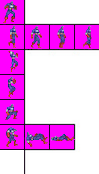
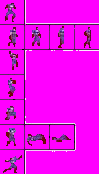
shooting animations

diff --git a/src/Level/Player.java b/src/Level/Player.java
@@ -48,6 +48,7 @@ public abstract class Player extends GameObject {
     protected Key MOVE_LEFT_KEY = Key.LEFT;
     protected Key MOVE_RIGHT_KEY = Key.RIGHT;
     protected Key CROUCH_KEY = Key.DOWN;
+    protected Key SHOOT_KEY = Key.SHIFT;
 
     // flags
     protected boolean isInvincible = false; // if true, player cannot be hurt by enemies (good for testing)
@@ -263,14 +264,26 @@ public abstract class Player extends GameObject {
             if (currentMapTile != null && currentMapTile.getTileType() == TileType.WATER) {
                 this.currentAnimationName = facingDirection == Direction.RIGHT ? "SWIM_STAND_RIGHT" : "SWIM_STAND_LEFT";
             }
+            //switches to shooting animation. 
+            if(Keyboard.isKeyDown(SHOOT_KEY)){
+                this.currentAnimationName = facingDirection == Direction.RIGHT ? "SHOOT_RIGHT" : "SHOOT_LEFT";
+            }
         }
         else if (playerState == PlayerState.WALKING) {
             // sets animation to a WALK animation based on which way player is facing
             this.currentAnimationName = facingDirection == Direction.RIGHT ? "WALK_RIGHT" : "WALK_LEFT";
+            //switches to shooting animation. 
+            if(Keyboard.isKeyDown(SHOOT_KEY)){
+                this.currentAnimationName = facingDirection == Direction.RIGHT ? "SHOOT_RIGHT" : "SHOOT_LEFT";
+            }
         }
         else if (playerState == PlayerState.CROUCHING) {
             // sets animation to a CROUCH animation based on which way player is facing
             this.currentAnimationName = facingDirection == Direction.RIGHT ? "CROUCH_RIGHT" : "CROUCH_LEFT";
+            //switches to shooting animation. 
+            if(Keyboard.isKeyDown(SHOOT_KEY)){
+                this.currentAnimationName = facingDirection == Direction.RIGHT ? "SHOOT_RIGHT" : "SHOOT_LEFT";
+            }
         }
         else if (playerState == PlayerState.JUMPING) {
             // if player is moving upwards, set player's animation to jump. if player moving downwards, set player's animation to fall
@@ -278,6 +291,10 @@ public abstract class Player extends GameObject {
                 this.currentAnimationName = facingDirection == Direction.RIGHT ? "JUMP_RIGHT" : "JUMP_LEFT";
             } else {
                 this.currentAnimationName = facingDirection == Direction.RIGHT ? "FALL_RIGHT" : "FALL_LEFT";
+            }
+            //switches to shooting animation. 
+            if(Keyboard.isKeyDown(SHOOT_KEY)){
+                this.currentAnimationName = facingDirection == Direction.RIGHT ? "SHOOT_RIGHT" : "SHOOT_LEFT";
             }
         }
     }

diff --git a/src/Enemies/Cat.java b/src/Enemies/Cat.java
@@ -52,6 +52,7 @@ public class Cat extends Player {
             MOVE_LEFT_KEY = Key.A;
             MOVE_RIGHT_KEY = Key.D;
             CROUCH_KEY = Key.S;
+            SHOOT_KEY = Key.Q;
         }
         playerNumberOut = playerNumber;
         this.character = character;
@@ -304,14 +305,16 @@ public class Cat extends Player {
             });
 
             put("SHOOT_RIGHT", new Frame[] {
-                new FrameBuilder(spriteSheet.getSprite(6, 0))
+                //adds delay to shooting animation. 
+                new FrameBuilder(spriteSheet.getSprite(6, 0), 5)
                     .withScale(3)
                     .withBounds(0, 0, spriteWidth, spriteHeight)
                     .build()
             });
 
             put("SHOOT_LEFT", new Frame[] {
-                new FrameBuilder(spriteSheet.getSprite(6, 0))
+                //adds delay to shooting animation. 
+                new FrameBuilder(spriteSheet.getSprite(6, 0), 5)
                     .withScale(3)
                     .withImageEffect(ImageEffect.FLIP_HORIZONTAL)
                     .withBounds(0, 0, spriteWidth, spriteHeight)
